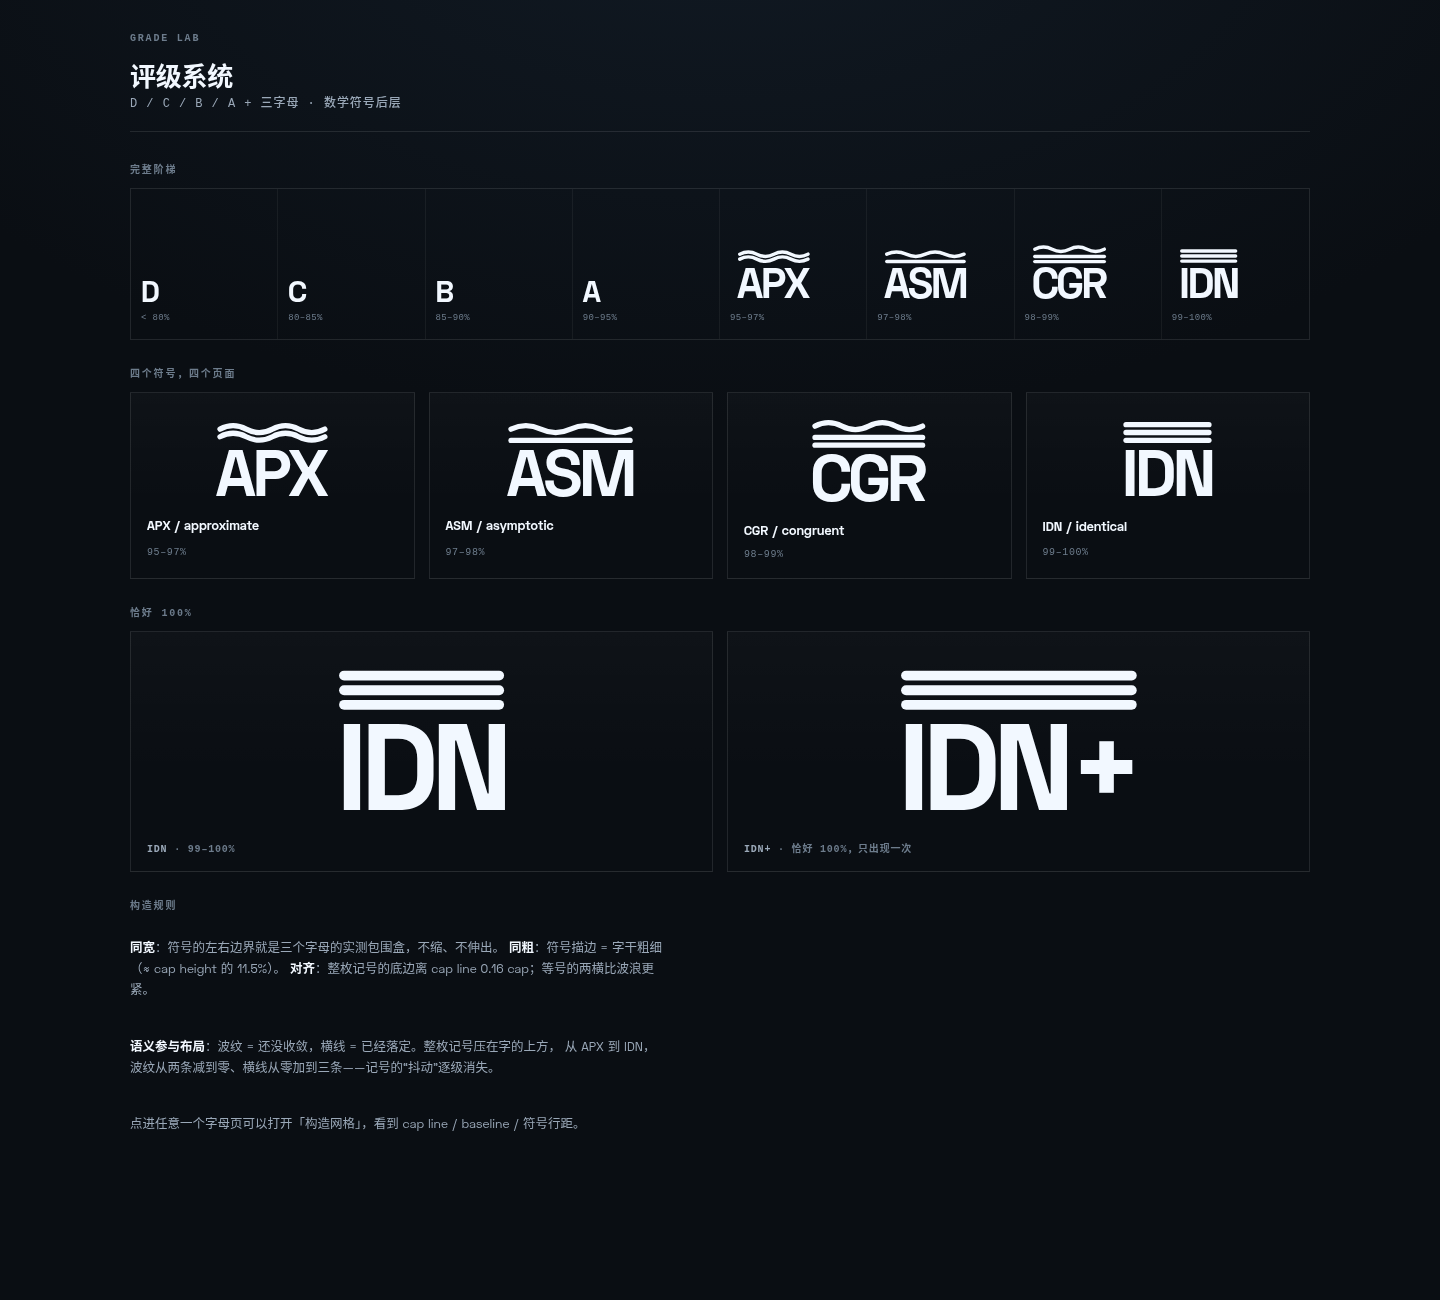
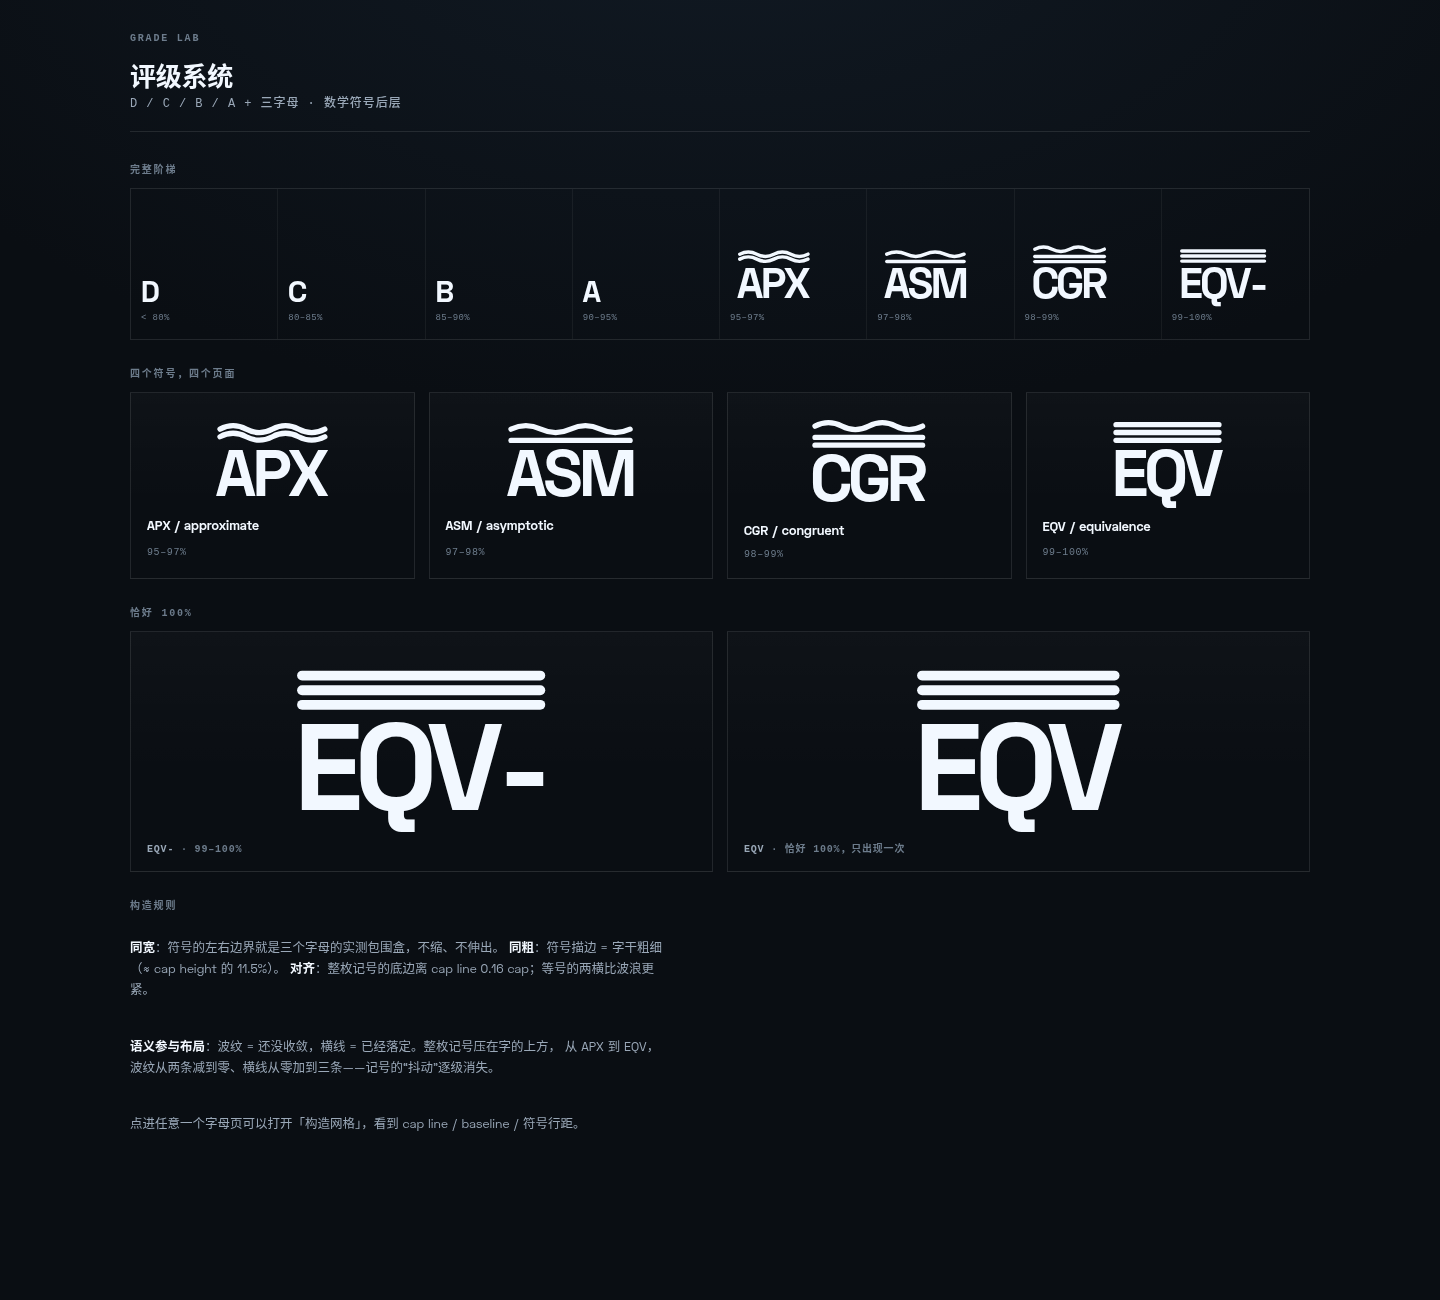
feat(grade): rename top grades to EQV- / EQV

diff --git a/design/grade-lab/index.html b/design/grade-lab/index.html
@@ -83,12 +83,12 @@
         <h2>恰好 100%</h2>
         <div class="idnplus">
           <figure>
-            <div class="lock" data-lock data-variant="above" data-size="130" data-word="IDN"></div>
-            <figcaption><b>IDN</b> · 99–100%</figcaption>
+            <div class="lock" data-lock data-variant="above" data-size="130" data-word="EQV-"></div>
+            <figcaption><b>EQV-</b> · 99–100%</figcaption>
           </figure>
           <figure>
-            <div class="lock" data-lock data-variant="above" data-size="130" data-word="IDN+"></div>
-            <figcaption><b>IDN+</b> · 恰好 100%，只出现一次</figcaption>
+            <div class="lock" data-lock data-variant="above" data-size="130" data-word="EQV"></div>
+            <figcaption><b>EQV</b> · 恰好 100%，只出现一次</figcaption>
           </figure>
         </div>
       </section>
@@ -103,7 +103,7 @@
           </p>
           <p>
             <b>语义参与布局</b>：波纹 = 还没收敛，横线 = 已经落定。整枚记号压在字的上方，
-            从 APX 到 IDN，波纹从两条减到零、横线从零加到三条——记号的“抖动”逐级消失。
+            从 APX 到 EQV，波纹从两条减到零、横线从零加到三条——记号的“抖动”逐级消失。
           </p>
           <p>点进任意一个字母页可以打开「构造网格」，看到 cap line / baseline / 符号行距。</p>
         </div>
@@ -121,13 +121,14 @@
         { key: 'APX', range: '95–97%' },
         { key: 'ASM', range: '97–98%' },
         { key: 'CGR', range: '98–99%' },
-        { key: 'IDN', range: '99–100%' },
+        { key: 'EQV-', range: '99–100%' },
       ];
 
       document.getElementById('ladder').innerHTML = GRADES.map((g) => {
-        const symbol = ['APX', 'ASM', 'CGR', 'IDN'].includes(g.key);
+        const symbol = ['APX', 'ASM', 'CGR', 'EQV', 'EQV-'].includes(g.key);
+        const page = g.key.replace(/[-+]/g, '').toLowerCase();
         return `
-        <a class="step" href="${symbol ? `./${g.key.toLowerCase()}.html` : '#'}">
+        <a class="step" href="${symbol ? `./${page}.html` : '#'}">
           ${symbol ? `<div class="lock" data-lock data-variant="above" data-size="64" data-word="${g.key}"></div>` : `<b class="letter">${g.key}</b>`}
           <span>${g.range}</span>
         </a>`;
@@ -137,7 +138,7 @@
         ['APX', 'approximate', '95–97%'],
         ['ASM', 'asymptotic', '97–98%'],
         ['CGR', 'congruent', '98–99%'],
-        ['IDN', 'identical', '99–100%'],
+        ['EQV', 'equivalence', '99–100%'],
       ];
 
       document.getElementById('cards').innerHTML = CARDS.map(
@@ -152,7 +153,7 @@
       function drawAll() {
         document.querySelectorAll('[data-lock]').forEach((host) => {
           const word = host.dataset.word;
-          const symbol = word.replace('+', '');
+          const symbol = word.replace(/[-+]/g, '');
           renderLockup(host, {
             word,
             symbol,

diff --git a/design/grade-lab/eqv.html b/design/grade-lab/eqv.html
@@ -3,15 +3,15 @@
   <head>
     <meta charset="utf-8" />
     <meta name="viewport" content="width=device-width, initial-scale=1" />
-    <title>GRADE LAB — IDN</title>
+    <title>GRADE LAB — EQV</title>
     <link rel="stylesheet" href="./base.css" />
   </head>
   <body>
     <header>
       <div>
-        <div class="crumb"><a href="./index.html">GRADE LAB</a> / IDN</div>
-        <h1>IDN</h1>
-        <p class="sub">identical · 99–100%</p>
+        <div class="crumb"><a href="./index.html">GRADE LAB</a> / EQV</div>
+        <h1>EQV</h1>
+        <p class="sub">equivalence · 99–100%</p>
       </div>
       <div class="tools">
         <button id="grid" aria-pressed="false">构造网格</button>
@@ -65,15 +65,15 @@
 
       <section>
         <h2>为什么这样摆</h2>
-        <p class="note">没有波了，三条等距的线压在字上——记号本身也变成“完全规整”的样子。</p>
+        <p class="note">没有波了，三条等距的线压在字上——记号本身也变成“完全规整”的样子。恰好 100% 记作 EQV（不带减号）。</p>
       </section>
     </main>
 
     <script type="module">
       import { renderLockup } from './lockup.js';
 
-      const WORD = 'IDN';
-      const SYMBOL = 'IDN';
+      const WORD = 'EQV';
+      const SYMBOL = 'EQV';
       let grid = false;
 
       function draw() {

diff --git a/design/grade-lab/result.html b/design/grade-lab/result.html
@@ -377,8 +377,8 @@
       };
 
       const GRADES = [
-        { key: 'IDN+', symbol: 'IDN', min: 100, max: 100, name: 'identical+' },
-        { key: 'IDN', symbol: 'IDN', min: 99, max: 100, name: 'identical' },
+        { key: 'EQV', symbol: 'EQV', min: 100, max: 100, name: 'equivalence' },
+        { key: 'EQV-', symbol: 'EQV', min: 99, max: 100, name: 'equivalence' },
         { key: 'CGR', symbol: 'CGR', min: 98, max: 99, name: 'congruent' },
         { key: 'ASM', symbol: 'ASM', min: 97, max: 98, name: 'asymptotic' },
         { key: 'APX', symbol: 'APX', min: 95, max: 97, name: 'approximate' },
@@ -440,7 +440,7 @@
               <div class="r-divider"></div>
               <div class="r-right">
                 <div class="r-grade" data-grade></div>
-                <div class="r-caption">${grade.symbol ? (grade.key === 'IDN+' ? 'IDENTICAL+' : grade.name.toUpperCase()) : `${grade.key} · ${state.accuracy.toFixed(1)}%`}</div>
+                <div class="r-caption">${grade.symbol ? grade.name.toUpperCase() : `${grade.key} · ${state.accuracy.toFixed(1)}%`}</div>
                 <div class="r-rows">
                   <div class="r-row"><span>PERFECT</span><b>${state.perfect}</b></div>
                   <div class="r-row"><span>GOOD</span><b>${state.good}</b></div>

diff --git a/prototype/src/ui/gameUi.ts b/prototype/src/ui/gameUi.ts
@@ -497,8 +497,8 @@ interface GradeMark {
 
 /** 阈值见 FUTURE.md §0.2：<80 D → 80/85/90/95 → 95/97/98/99/100。 */
 const GRADE_STEPS: Array<{ min: number; key: string; symbol: string | null; word: string }> = [
-  { min: 100, key: 'IDN+', symbol: 'IDN', word: 'IDENTICAL+' },
-  { min: 99, key: 'IDN', symbol: 'IDN', word: 'IDENTICAL' },
+  { min: 100, key: 'EQV', symbol: 'EQV', word: 'EQUIVALENCE' },
+  { min: 99, key: 'EQV-', symbol: 'EQV', word: 'EQUIVALENCE' },
   { min: 98, key: 'CGR', symbol: 'CGR', word: 'CONGRUENT' },
   { min: 97, key: 'ASM', symbol: 'ASM', word: 'ASYMPTOTIC' },
   { min: 95, key: 'APX', symbol: 'APX', word: 'APPROXIMATE' },
@@ -512,7 +512,7 @@ const GRADE_SYMBOLS: Record<string, Array<'wave' | 'line'>> = {
   APX: ['wave', 'wave'],
   ASM: ['wave', 'line'],
   CGR: ['wave', 'line', 'line'],
-  IDN: ['line', 'line', 'line'],
+  EQV: ['line', 'line', 'line'],
 };
 
 function gradeFor(accuracy: number): GradeMark {

diff --git a/design/grade-lab/lockup.js b/design/grade-lab/lockup.js
@@ -18,7 +18,7 @@ export const SYMBOLS = {
   APX: [{ kind: 'wave' }, { kind: 'wave' }],
   ASM: [{ kind: 'wave' }, { kind: 'line' }],
   CGR: [{ kind: 'wave' }, { kind: 'line' }, { kind: 'line' }],
-  IDN: [{ kind: 'line' }, { kind: 'line' }, { kind: 'line' }],
+  EQV: [{ kind: 'line' }, { kind: 'line' }, { kind: 'line' }],
 };
 
 

diff --git a/prototype/STATUS.md b/prototype/STATUS.md
@@ -48,7 +48,7 @@
 - **Songs 滚动（2026-10-22）**：列表从固定 4 行改为 4 行窗口 + 摇杆滚动（`hands.stickY`，axes[3] / axes[1]）；另有 ↑/↓ 箭头、滚动条、`n–m / total` 计数；换歌自动把选中项滚进视野。
 - **Combo HUD（2026-10-22）**：[`src/scene/comboHud.ts`](src/scene/comboHud.ts) 世界固定 Sprite，位置 `(0, 1.80, −2.60)`（高于眼高与最高 note；玩家靠近 1.9m 内淡出）；大数字 + 小标签；0 隐藏、MISS 快速淡出、命中轻微脉冲；只在 combo 变化时重绘纹理；`?comboX` / `?comboY` / `?comboZ` 可调。修过一次实现 bug：缺 `?comboZ` 时 `Number(null) === 0` 把 HUD 放到 `(0, 0, 0)`（玩家头里）。
 - **默认难度 / tier 色（2026-10-22）**：编辑器新谱默认难度改为空字符串（不再写 `IN 1`）；五个 tier 的主题色 + 动效定稿，记录在 [`../parallax-idea.md`](../parallax-idea.md) §3 与 [`FUTURE.md`](FUTURE.md) §0.1，**未实现 tier UI**。
-- **结算评级（2026-10-23）**：Result 改为双栏新版——左栏分数 / 曲名 / 四事实 / 判定条 / 按钮，右栏评级锁版（canvas 复刻，cap 52）+ PERFECT/GOOD/MISS + GOOD TIMING；CLEAR / FAILED 27px。阈值 `<80 D … 100 IDN+`。
+- **结算评级（2026-10-23）**：Result 改为双栏新版——左栏分数 / 曲名 / 四事实 / 判定条 / 按钮，右栏评级锁版（canvas 复刻，cap 52）+ PERFECT/GOOD/MISS + GOOD TIMING；CLEAR / FAILED 27px。阈值 `<80 D … 99 EQV- / 100 EQV`。
 - **暂停路径确认（2026-10-22）**：Quest 3 浏览器不暴露 menu 键，实际只有左手 Y 长按 400ms 可用；UI 文案与文档同步。
 - **暂缓**：无物量时立即结算，暂不按包内 `meta.duration` 等待；等 Infinity Heaven 谱面补充完成后再处理。
 

diff --git a/CHANGELOG.md b/CHANGELOG.md
@@ -9,7 +9,7 @@
 - 修复 Combo HUD 出现在玩家头里的问题：`?comboZ` 缺省时 `Number(null) === 0`，把位置读成了 `(0, 0, 0)`；缺参数现在按 `null` 处理，不覆盖默认位置。同时加「离头 1.9m 起淡出、1.1m 完全消失」，避免前倾时怼到脸上。
 - Quest 3 上 menu 键不暴露给 WebXR，暂停实际只走左手 Y 长按 400ms；面板 footer / 首页提示文案改为 `Y HOLD = PAUSE`，诊断提示同步。
 - 编辑器新谱默认难度改为空（不再自动写 `IN 1`）；`meta.difficulty` 仍兼容旧谱字符串。浮空显示对空难度回退为 `—`。
-- 结算画面加入评级：`<80 D / 80 C / 85 B / 90 A / 95 APX / 97 ASM / 98 CGR / 99 IDN / 100 IDN+`，
+- 结算画面加入评级：`<80 D / 80 C / 85 B / 90 A / 95 APX / 97 ASM / 98 CGR / 99 EQV- / 100 EQV`，
   评级锁版（三字母 + 自绘数学记号）画在右栏顶部；CLEAR / FAILED 升为 27px 大字状态。
 - 五个难度 tier 的主题色与动效定稿并写入文档（`parallax-idea.md` §3 / `FUTURE.md` §0.1）：钢灰、绿（呼吸）、琥珀（警报闪烁）、荧光洋红（自发光）、Wien ∞ K 蓝 `#7F9FFF`（更亮自发光 + 选歌界面除封面外降饱和）。**未实现任何 tier UI**。
 - 进入 VR 先到主页，不再自动开谱；主页显示当前谱面信息，`START` 后播放；

diff --git a/design/grade-lab/README.md b/design/grade-lab/README.md
@@ -13,11 +13,11 @@
 
 | 页面 | 内容 |
 | --- | --- |
-| [`index.html`](index.html) | 完整阶梯、四个符号入口、恰好 100% 的 `IDN+`、构造规则 |
+| [`index.html`](index.html) | 完整阶梯、四个符号入口、`EQV-` / `EQV`（100%）、构造规则 |
 | [`apx.html`](apx.html) | `APX` ≈ approximate · 95–97% |
 | [`asm.html`](asm.html) | `ASM` ≃ asymptotic · 97–98% |
 | [`cgr.html`](cgr.html) | `CGR` ≅ congruent · 98–99% |
-| [`idn.html`](idn.html) | `IDN` ≡ identical · 99–100%；恰好 100% 记作 `IDN+` |
+| [`eqv.html`](eqv.html) | `EQV` ≡ equivalence · 99–100%；恰好 100% 记作 `EQV`（`EQV-` 表示 99–100） |
 | [`result.html`](result.html) | 结算画面排版：760×470、评级在右栏、四种状态（满分 / 96% / 98% / FAILED） |
 
 每个字母页都有：大号锁版、三种摆法（above / below / behind）、面板尺度预览、
@@ -45,7 +45,7 @@
 
 ## 没定的部分
 
-- 字母词表：`APX / ASM / CGR / IDN` 是当前提案；
+- 字母词表：`APX / ASM / CGR / EQV`；`EQV` = equivalence。
 - 字体：样张用系统 sans（Space Grotesk 缺失时回退），正式做要选一款 display 字或自绘字形；
 - 动效（波纹收拢 / 评级跳动）不在这个样张里。
 

diff --git a/prototype/UI-BACKLOG.md b/prototype/UI-BACKLOG.md
@@ -41,7 +41,7 @@ Home → Songs → Playing → Paused → Settings
 | 输入安全 | 游玩中 `GameUi` 不接收点击；hold 的扳机与 UI 点击分离；切面板有 `pressLock` |
 | 六屏 | 双栏、可选歌曲列表、Add packs 二级页、Settings 六个真实控件、Result 判定条 + GOOD early/late |
 | Songs 滚动 | 超过 4 首时列表滚动：**摇杆上下推**为主路径；另有 ↑/↓ 箭头、滚动条、`n–m / total` 计数；换歌自动把选中项滚进视野 |
-| Result 评级 | 右栏顶部是评级锁版（D–A 单字 / APX–IDN 三字母 + 数学记号），阈值 80/85/90/95/97/98/99/100，恰好 100 记 `IDN+`；CLEAR / FAILED 大字 |
+| Result 评级 | 右栏顶部是评级锁版（D–A 单字 / APX–EQV 三字母 + 数学记号），阈值 80/85/90/95/97/98/99/100，99–100 记 `EQV-`、恰好 100 记 `EQV`；CLEAR / FAILED 大字 |
 | Combo HUD | 游玩中独立数字 HUD，世界固定在判定带中线上方；0 时隐藏，MISS 快速淡出；只做反馈，不计分 |
 | 面板 | 1.55m / 1.35m；`?panelScale`、`?panelDistance`、`?panelY` 可调；去圆角 / 去拟物 |
 | 曲库 | 内置谱 + `packages/index.json` 懒加载；选中后才下载 `.parallax`；18MB 包有 loading 覆盖层 |

diff --git a/prototype/FUTURE.md b/prototype/FUTURE.md
@@ -71,8 +71,9 @@
   （cap height 的 11.5%）、记号底边离 cap line 0.16 cap；行距按行类型给：
   波浪之间 5% cap，波浪到横线 / 横线之间 5.5% cap；波纹振幅 7.5% cap。
   默认摆法是「整枚记号压在字上方」。
-- 恰好 100% 记为 **`IDN+`**（`IDN` 覆盖 99–100%，`IDN+` 只在满分时出现）。
-- 字母词表待定（当前提案 `APX / ASM / CGR / IDN`）。
+- 恰好 100% 记为 **`EQV`**（`EQV-` 覆盖 99–100%，`EQV` 只在满分时出现）。
+  命名是 equivalence；`IDN`（identical）和三条杠的组合容易读成 IDF 宣传风格，已弃用。
+- 字母词表：`APX / ASM / CGR / EQV`（`EQV` 对应 equivalence）。
 - 其它候选族（仅记录）：
   1. **公差 / 计量**：`FINE` → `TIGHT` → `EXACT` → `ZERO`
   2. **相位锁定**：`SYNC` → `LOCK` → `PHASE` → `COHERENT`
